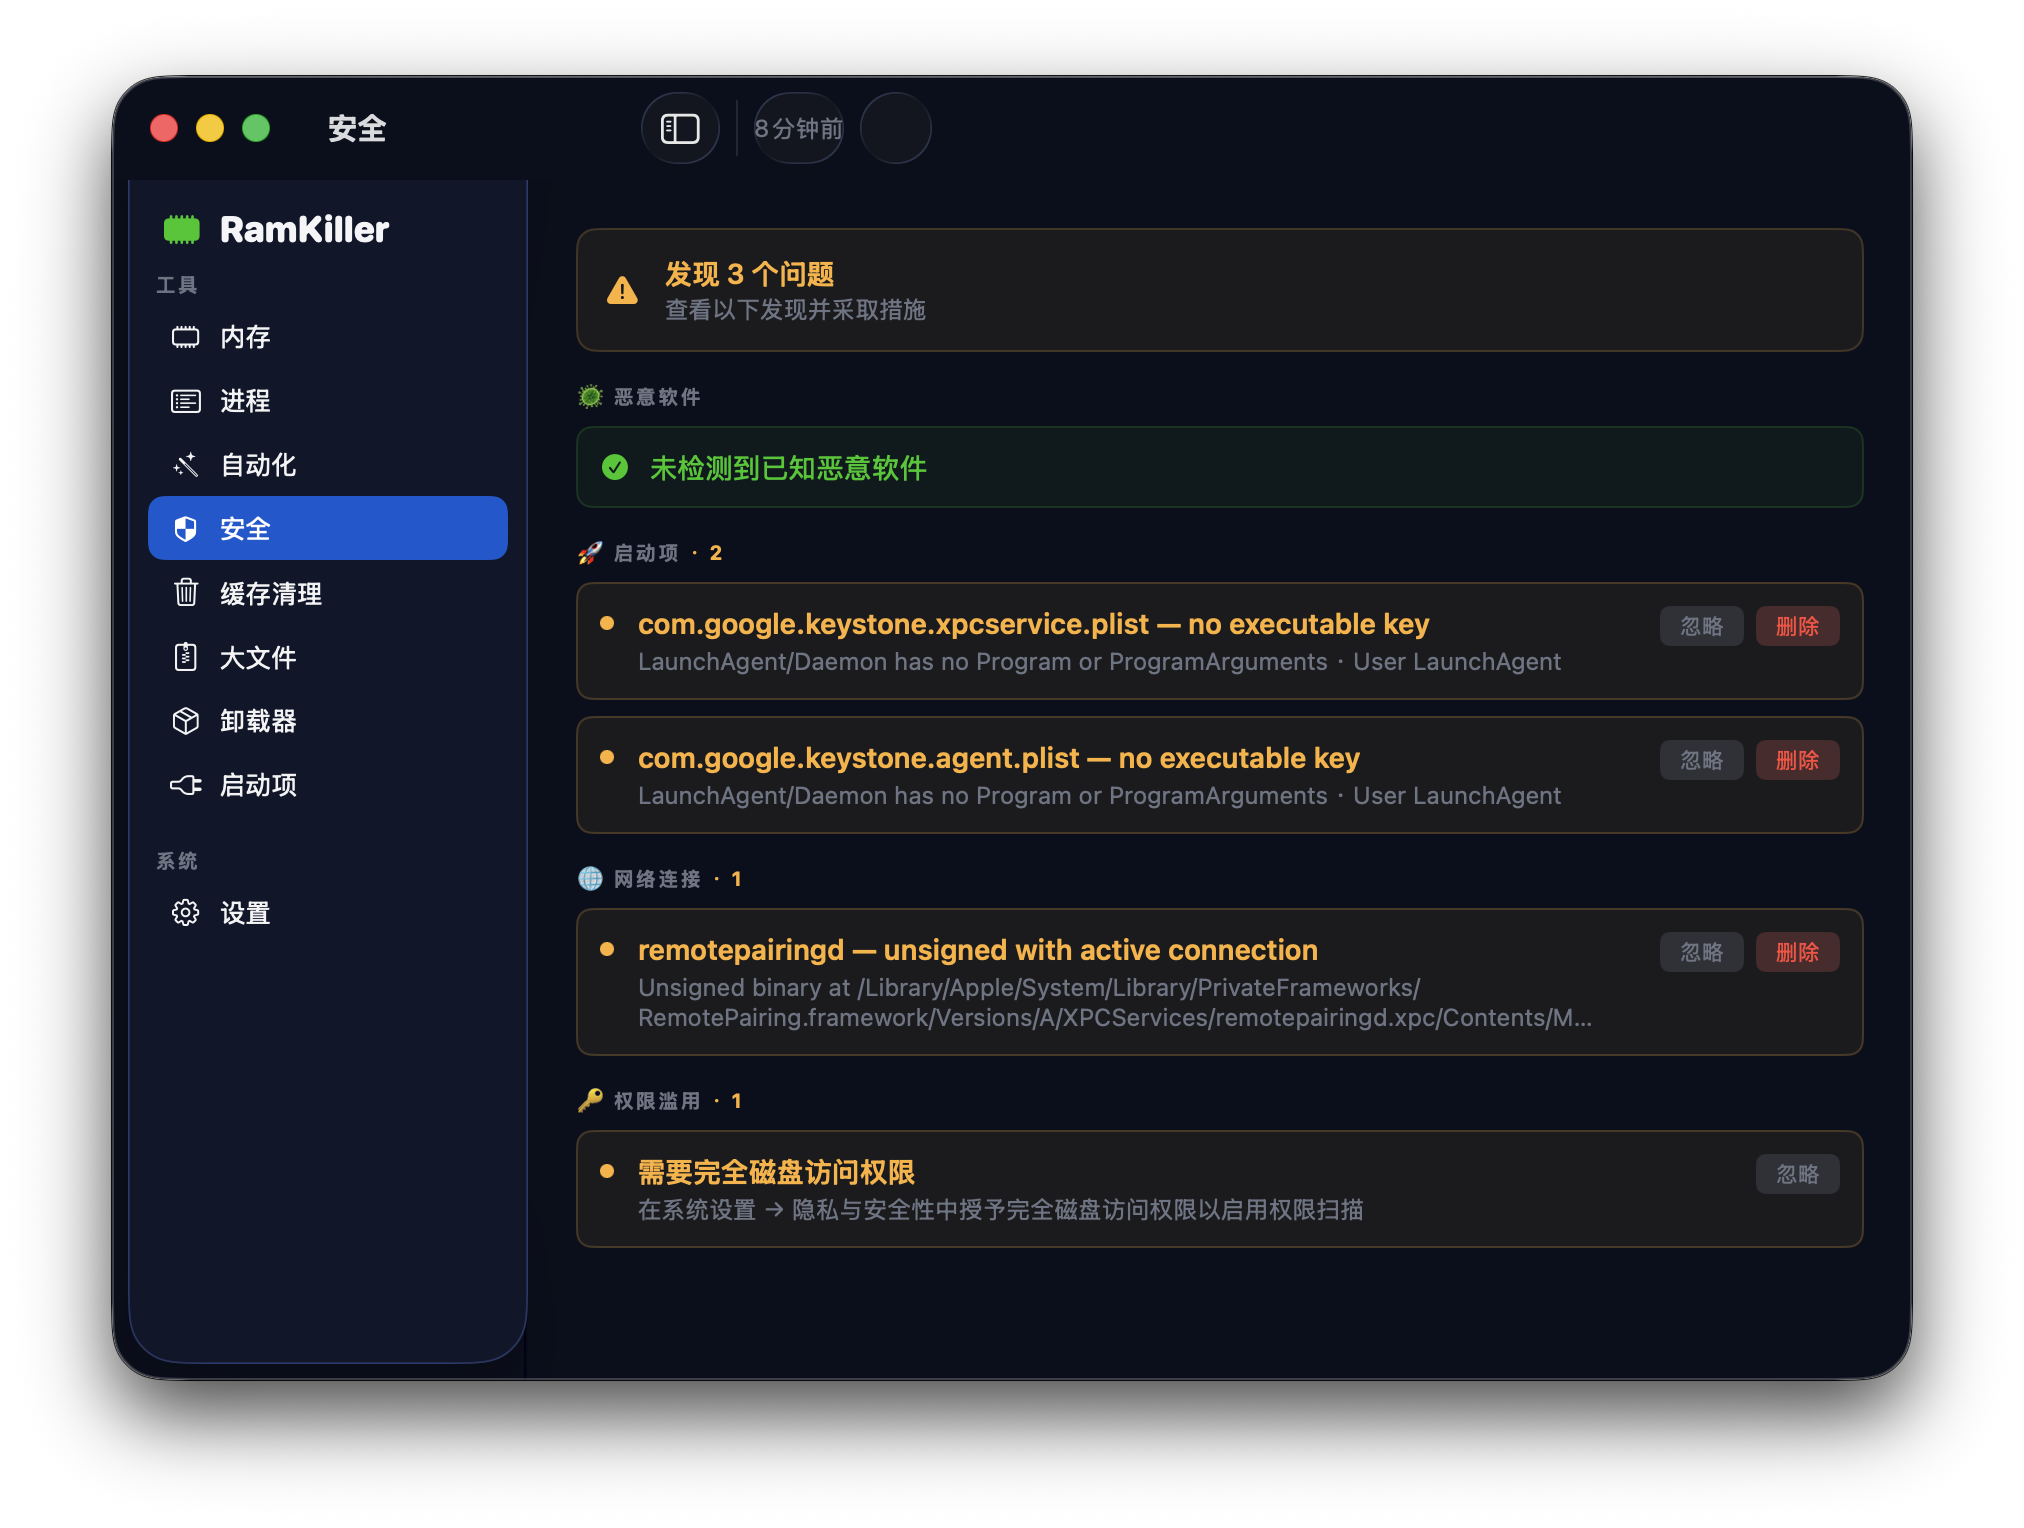
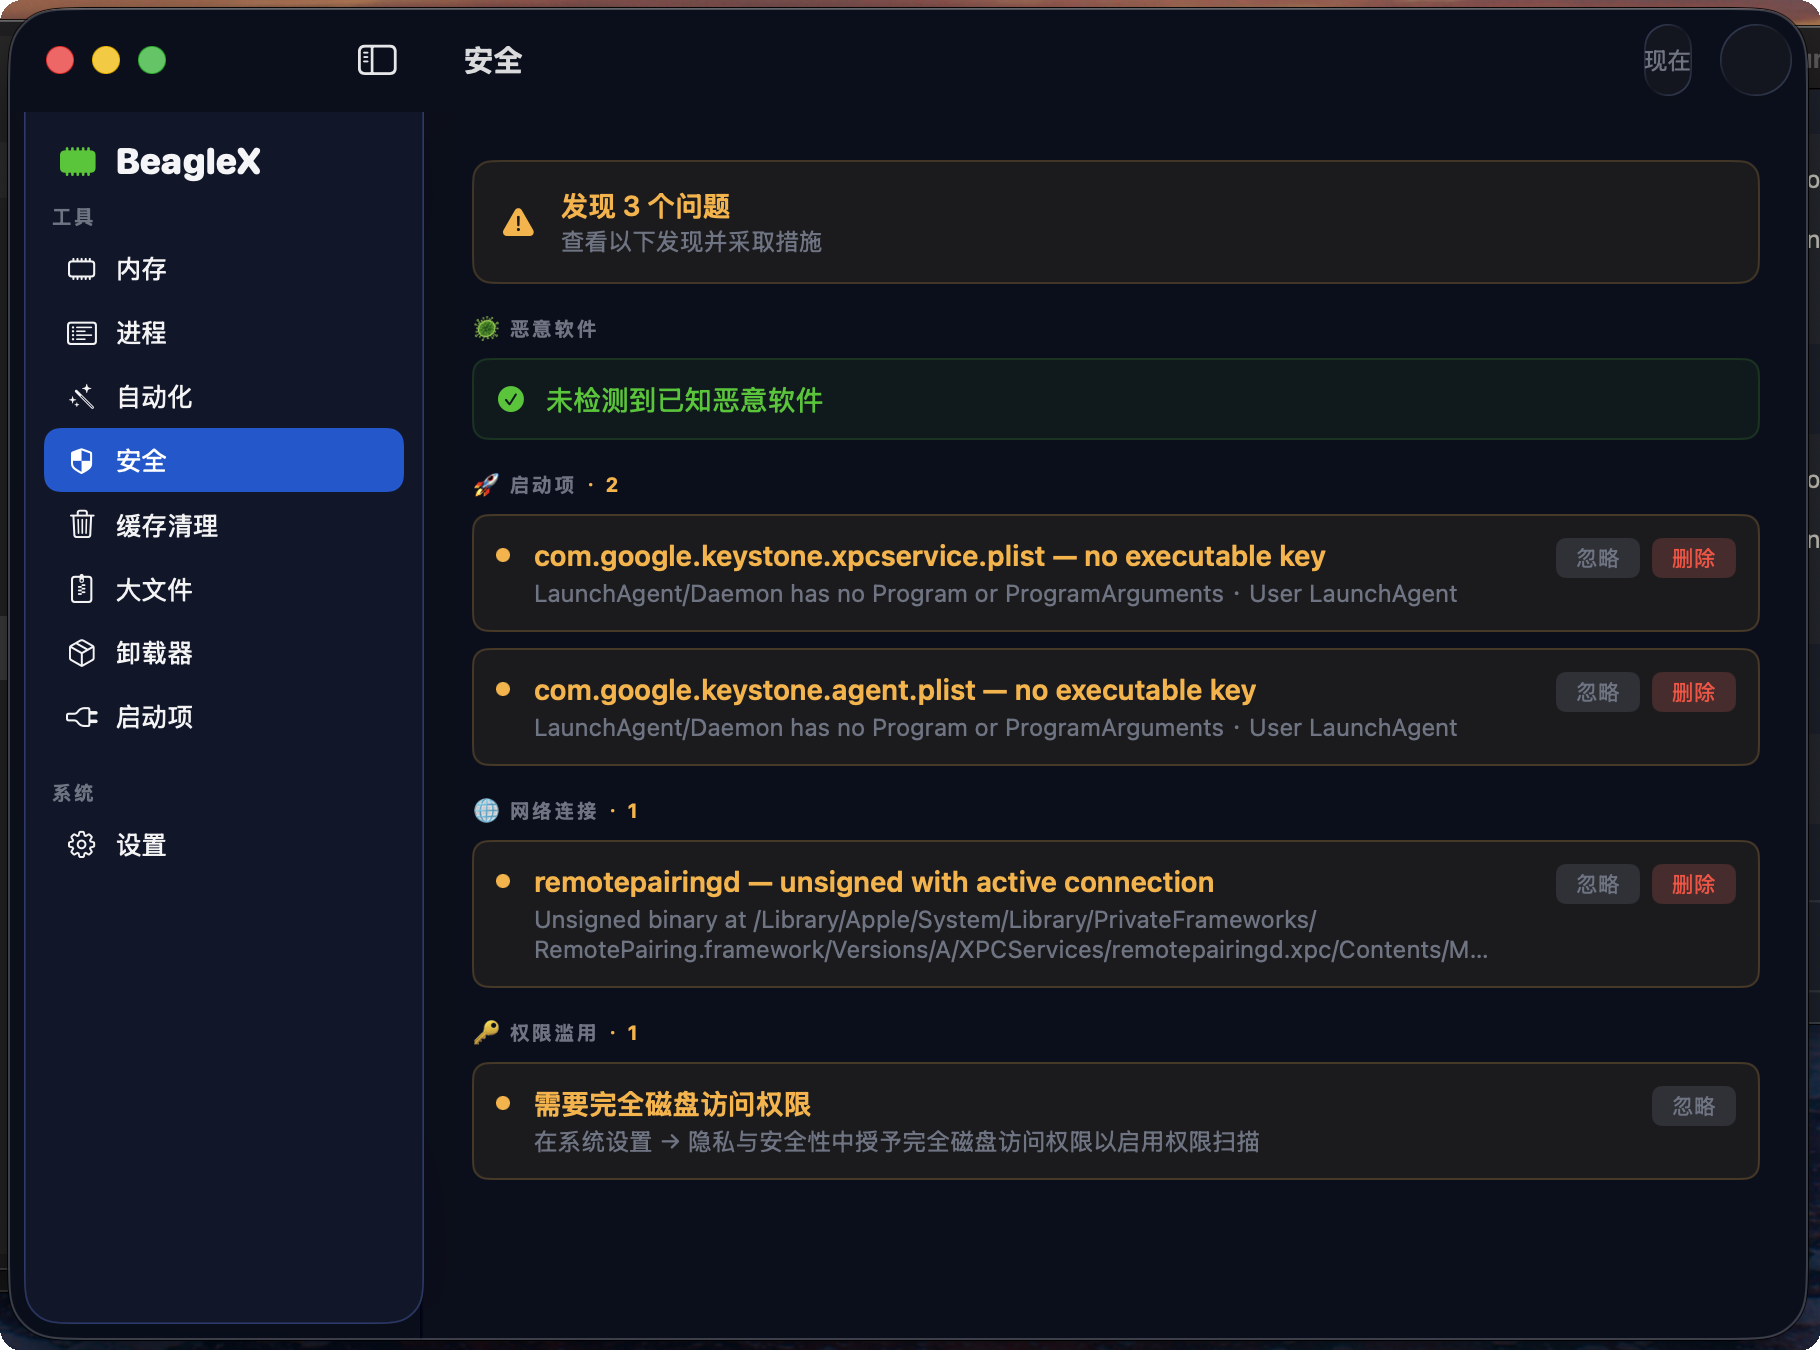
docs: update screenshots with BeagleX rebrand (memory/security/cache/uninstaller/settings/menubar)

diff --git a/README.md b/README.md
@@ -84,9 +84,13 @@ BeagleX 是一款让你的 Mac 保持流畅和安全的 macOS 综合工具。它
 |---|---|
 | ![Memory](docs/screenshots/memory.png) | ![Security](docs/screenshots/security.png) |
 
-| Menu bar widget / 菜单栏小部件 | Cache cleaner / 缓存清理 |
+| Cache cleaner / 缓存清理 | App uninstaller / 应用卸载器 |
 |---|---|
-| ![Menu bar](docs/screenshots/menubar.png) | ![Cache](docs/screenshots/cache-cleaner.png) |
+| ![Cache](docs/screenshots/cache-cleaner.png) | ![Uninstaller](docs/screenshots/uninstaller.png) |
+
+| Settings / 设置 | Menu bar widget / 菜单栏小部件 |
+|---|---|
+| ![Settings](docs/screenshots/settings.png) | ![Menu bar](docs/screenshots/menubar.png) |
 
 ## Installation / 安装
 